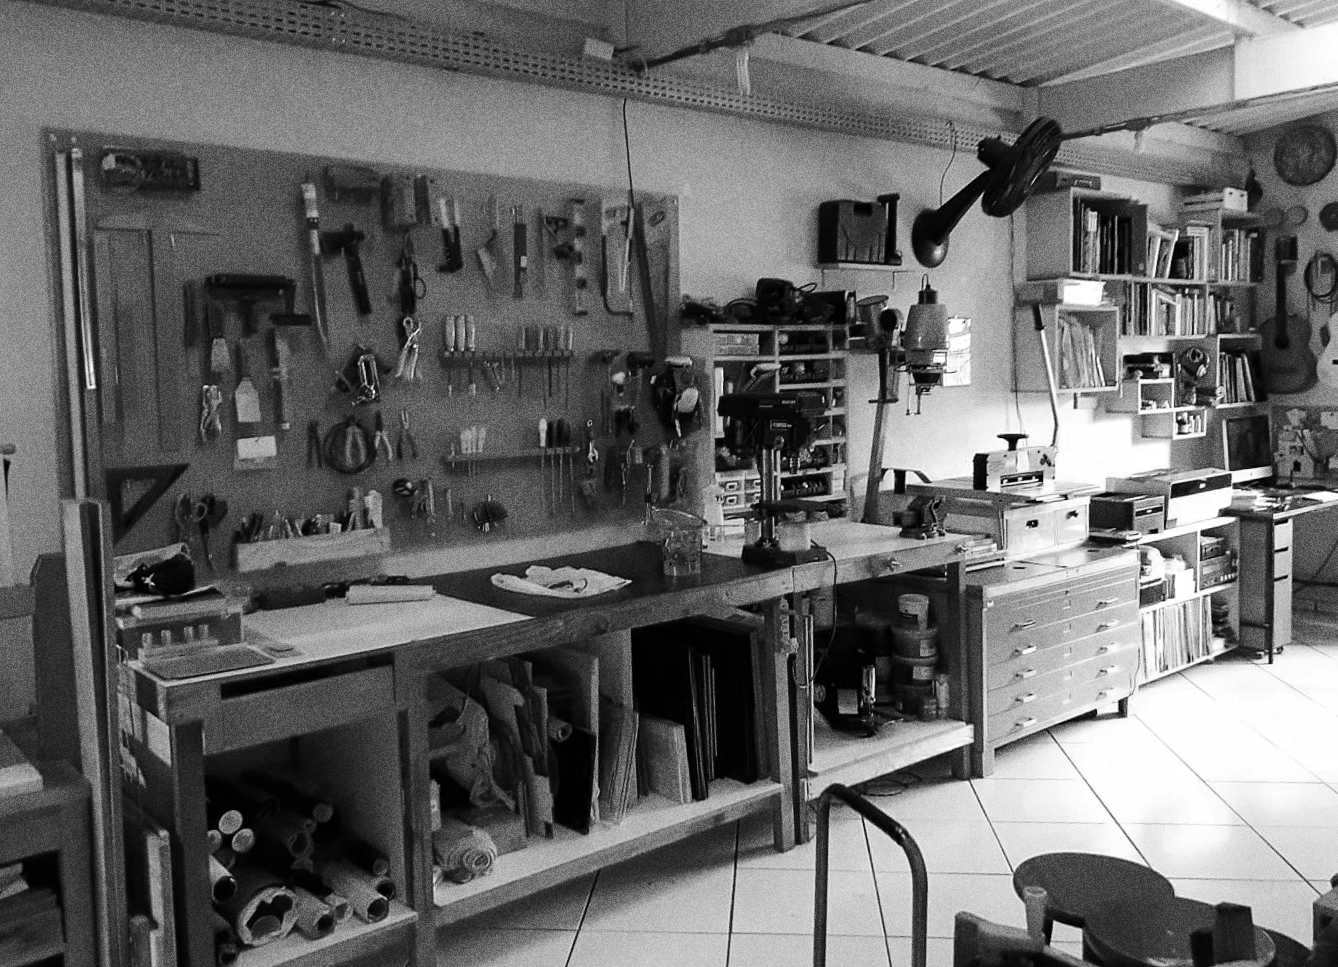
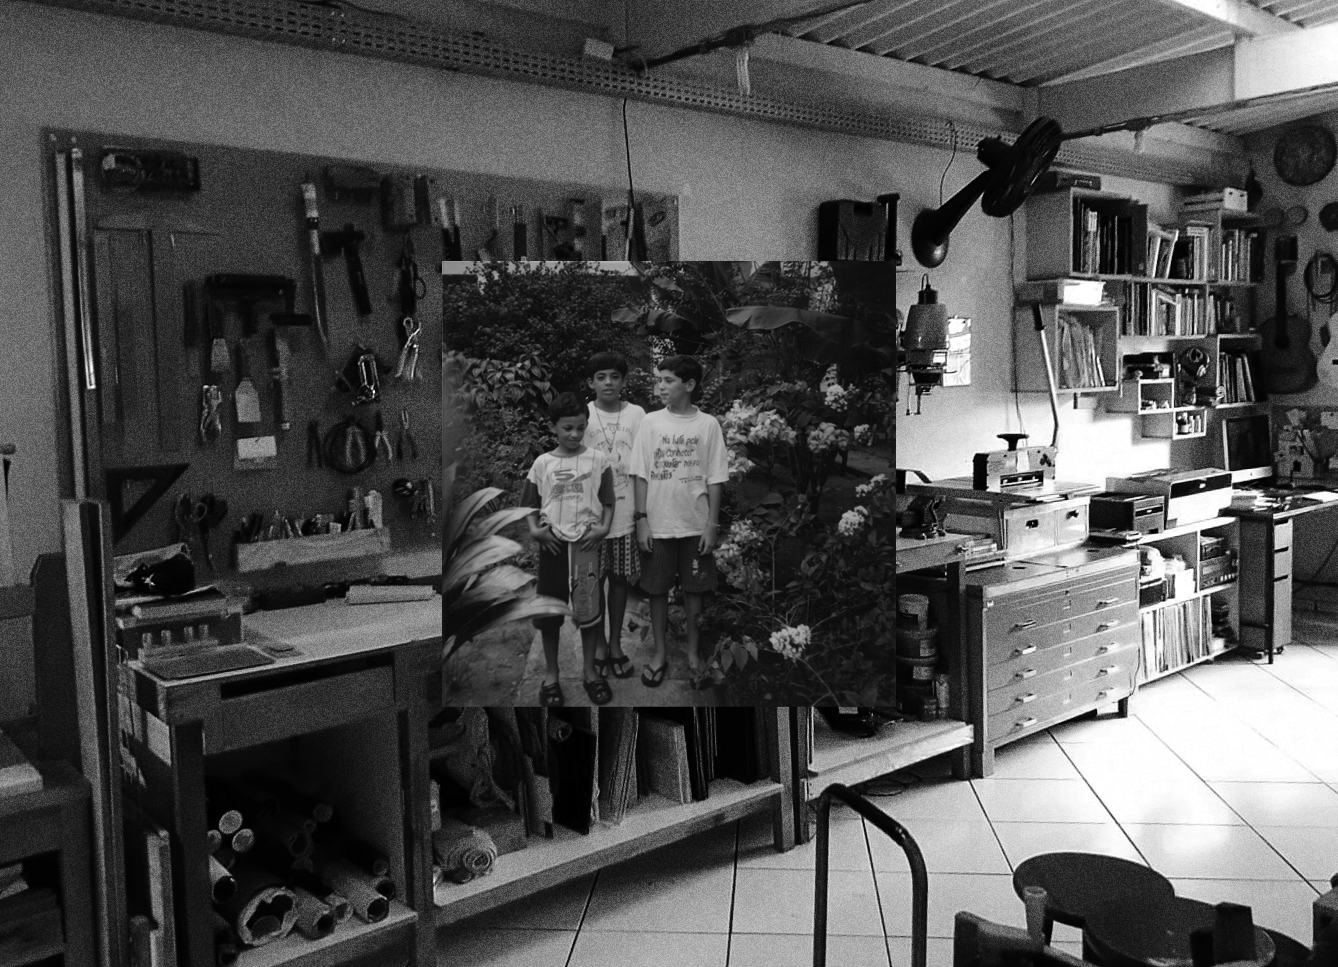
Atualização conteúdo.

diff --git a/index.html b/index.html
@@ -58,17 +58,19 @@
             <div class="coluna">
               <h1>Olá!</h1>
               <p>
-                <span class="fragment" data-fragment-index="1">Meu nome é Guilherme Vieira, nasci e cresci na zona leste São Paulo</span>
-                <span class="fragment" data-fragment-index="2" >sou sócio e designer no estúdio <a href="https://www.estudiodao.com" class="botao">Daó</a>,</span>
-                <span class="fragment" data-fragment-index="3" >artista gráfico na <a href="https://norte.in" class="botao">Norte</a></span>
-                <span class="fragment" data-fragment-index="4" >e um entusiasta da programação criativa programando mal a 10 anos.</span>
+                <span class="fragment" data-fragment-index="1">Meu nome é Guilherme Vieira, nasci e cresci na zona leste São Paulo </span>
+                <span class="fragment" data-fragment-index="2">e sou filho de pais professores.</span>
+                <span class="fragment" data-fragment-index="3" >Sou sócio e designer no estúdio <a href="https://www.estudiodao.com" class="botao">Daó</a>,</span>
+                <span class="fragment" data-fragment-index="4" >com meus irmãos tenho a <a href="https://norte.in" class="botao">Norte</a> onde produzo arte impressa</span>
+                <span class="fragment" data-fragment-index="5" >e também sou um entusiasta da programação criativa programando mal a 10 anos.</span>
              </p>
             </div>
             <div class="coluna">
               <div class="imagem-cheia fragment fade-in-then-out" data-fragment-index="1"style="background-image: url('assets/Retrato.png')"><img src="assets/retrato.png" alt="autoretrato em um quintal"></div>
-              <div class="imagem-cheia fragment fade-in-then-out" data-fragment-index="2" style="background-image: url('assets/Dao.png')"><img src="assets/retrato.png" alt="autoretrato em um quintal"></div>
-              <div class="imagem-cheia fragment fade-in-then-out" data-fragment-index="3" style="background-image: url('assets/Norte.png')"><img src="assets/retrato.png" alt="autoretrato em um quintal"></div>
-              <div class="imagem-cheia fragment" data-fragment-index="4" style="background-image: url('assets/Programação.png')"><img src="assets/retrato.png" alt="autoretrato em um quintal"></div>
+              <div class="imagem-cheia fragment fade-in-then-out" data-fragment-index="2" style="background-image: url('assets/pais.png')"><img src="assets/pais.png" alt="autoretrato em um quintal"></div>
+              <div class="imagem-cheia fragment fade-in-then-out" data-fragment-index="3" style="background-image: url('assets/Dao.png')"><img src="assets/Dao.png" alt="autoretrato em um quintal"></div>
+              <div class="imagem-cheia fragment fade-in-then-out" data-fragment-index="4" style="background-image: url('assets/Norte.png')"><img src="assets/Norte.png" alt="autoretrato em um quintal"></div>
+              <div class="imagem-cheia fragment" data-fragment-index="5" style="background-image: url('assets/Programação.png')"><img src="assets/Programação.png" alt="autoretrato em um quintal"></div>
             </div> 
           </div>
         </section>
